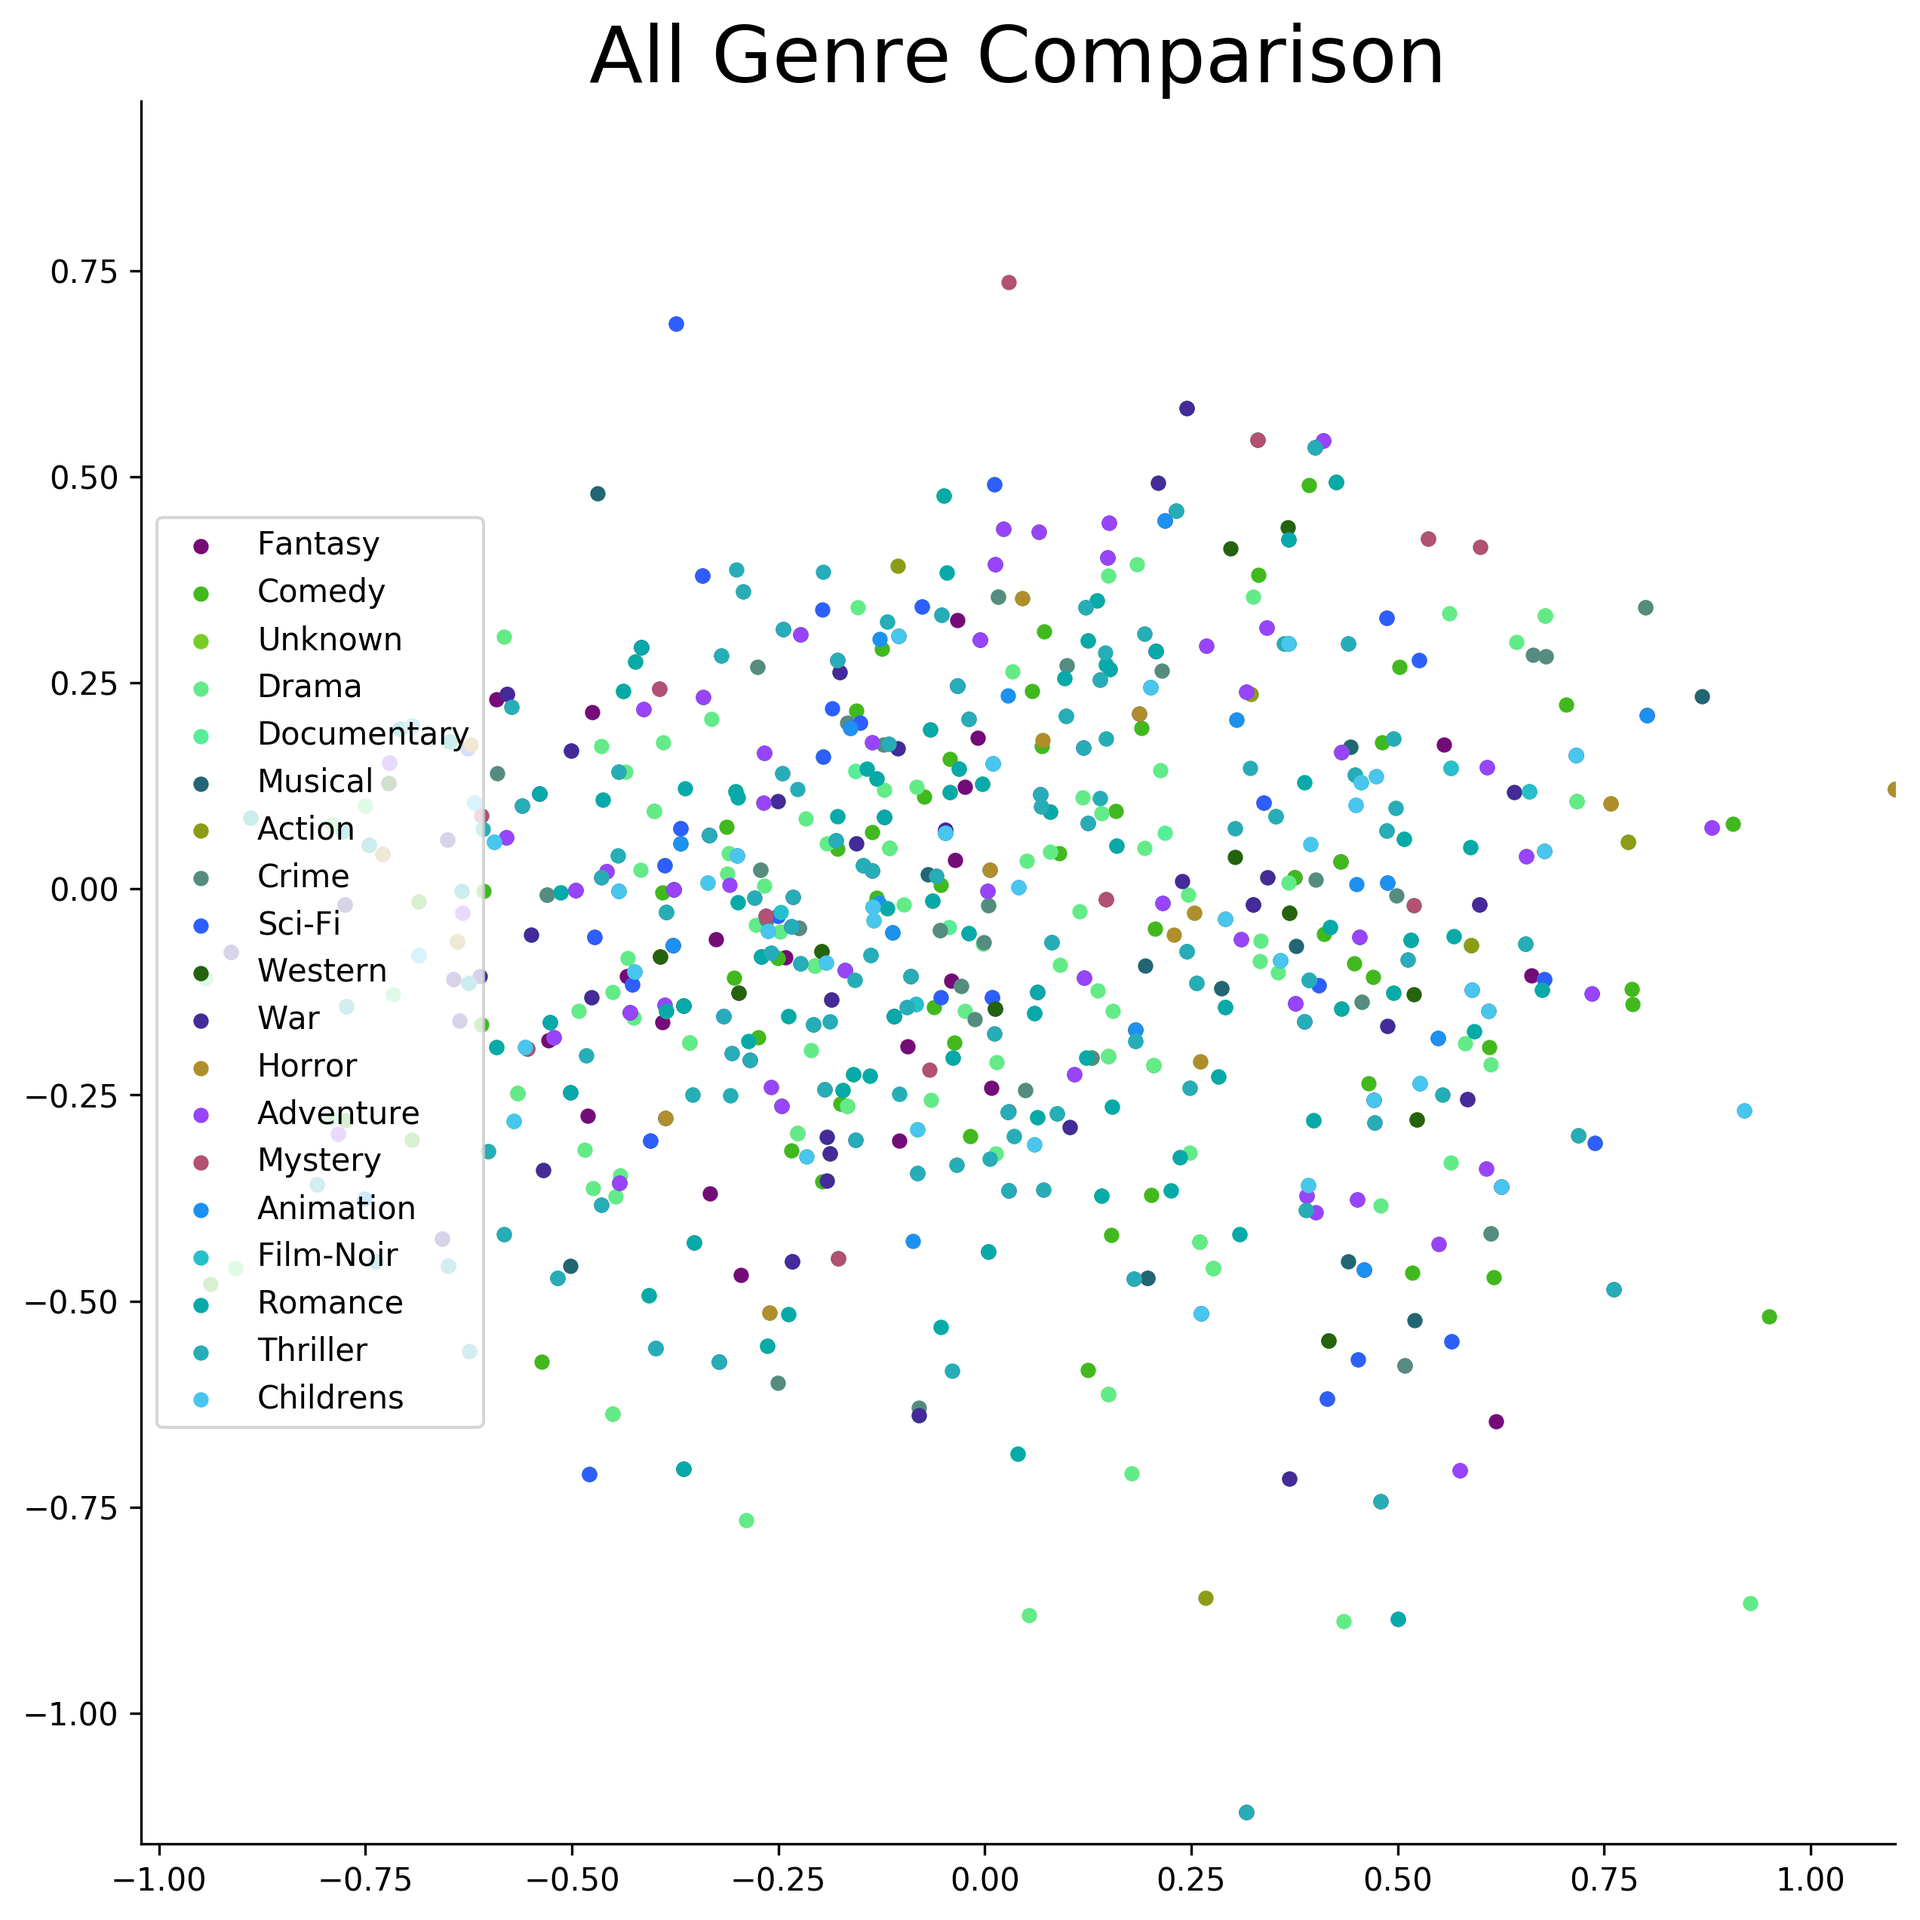
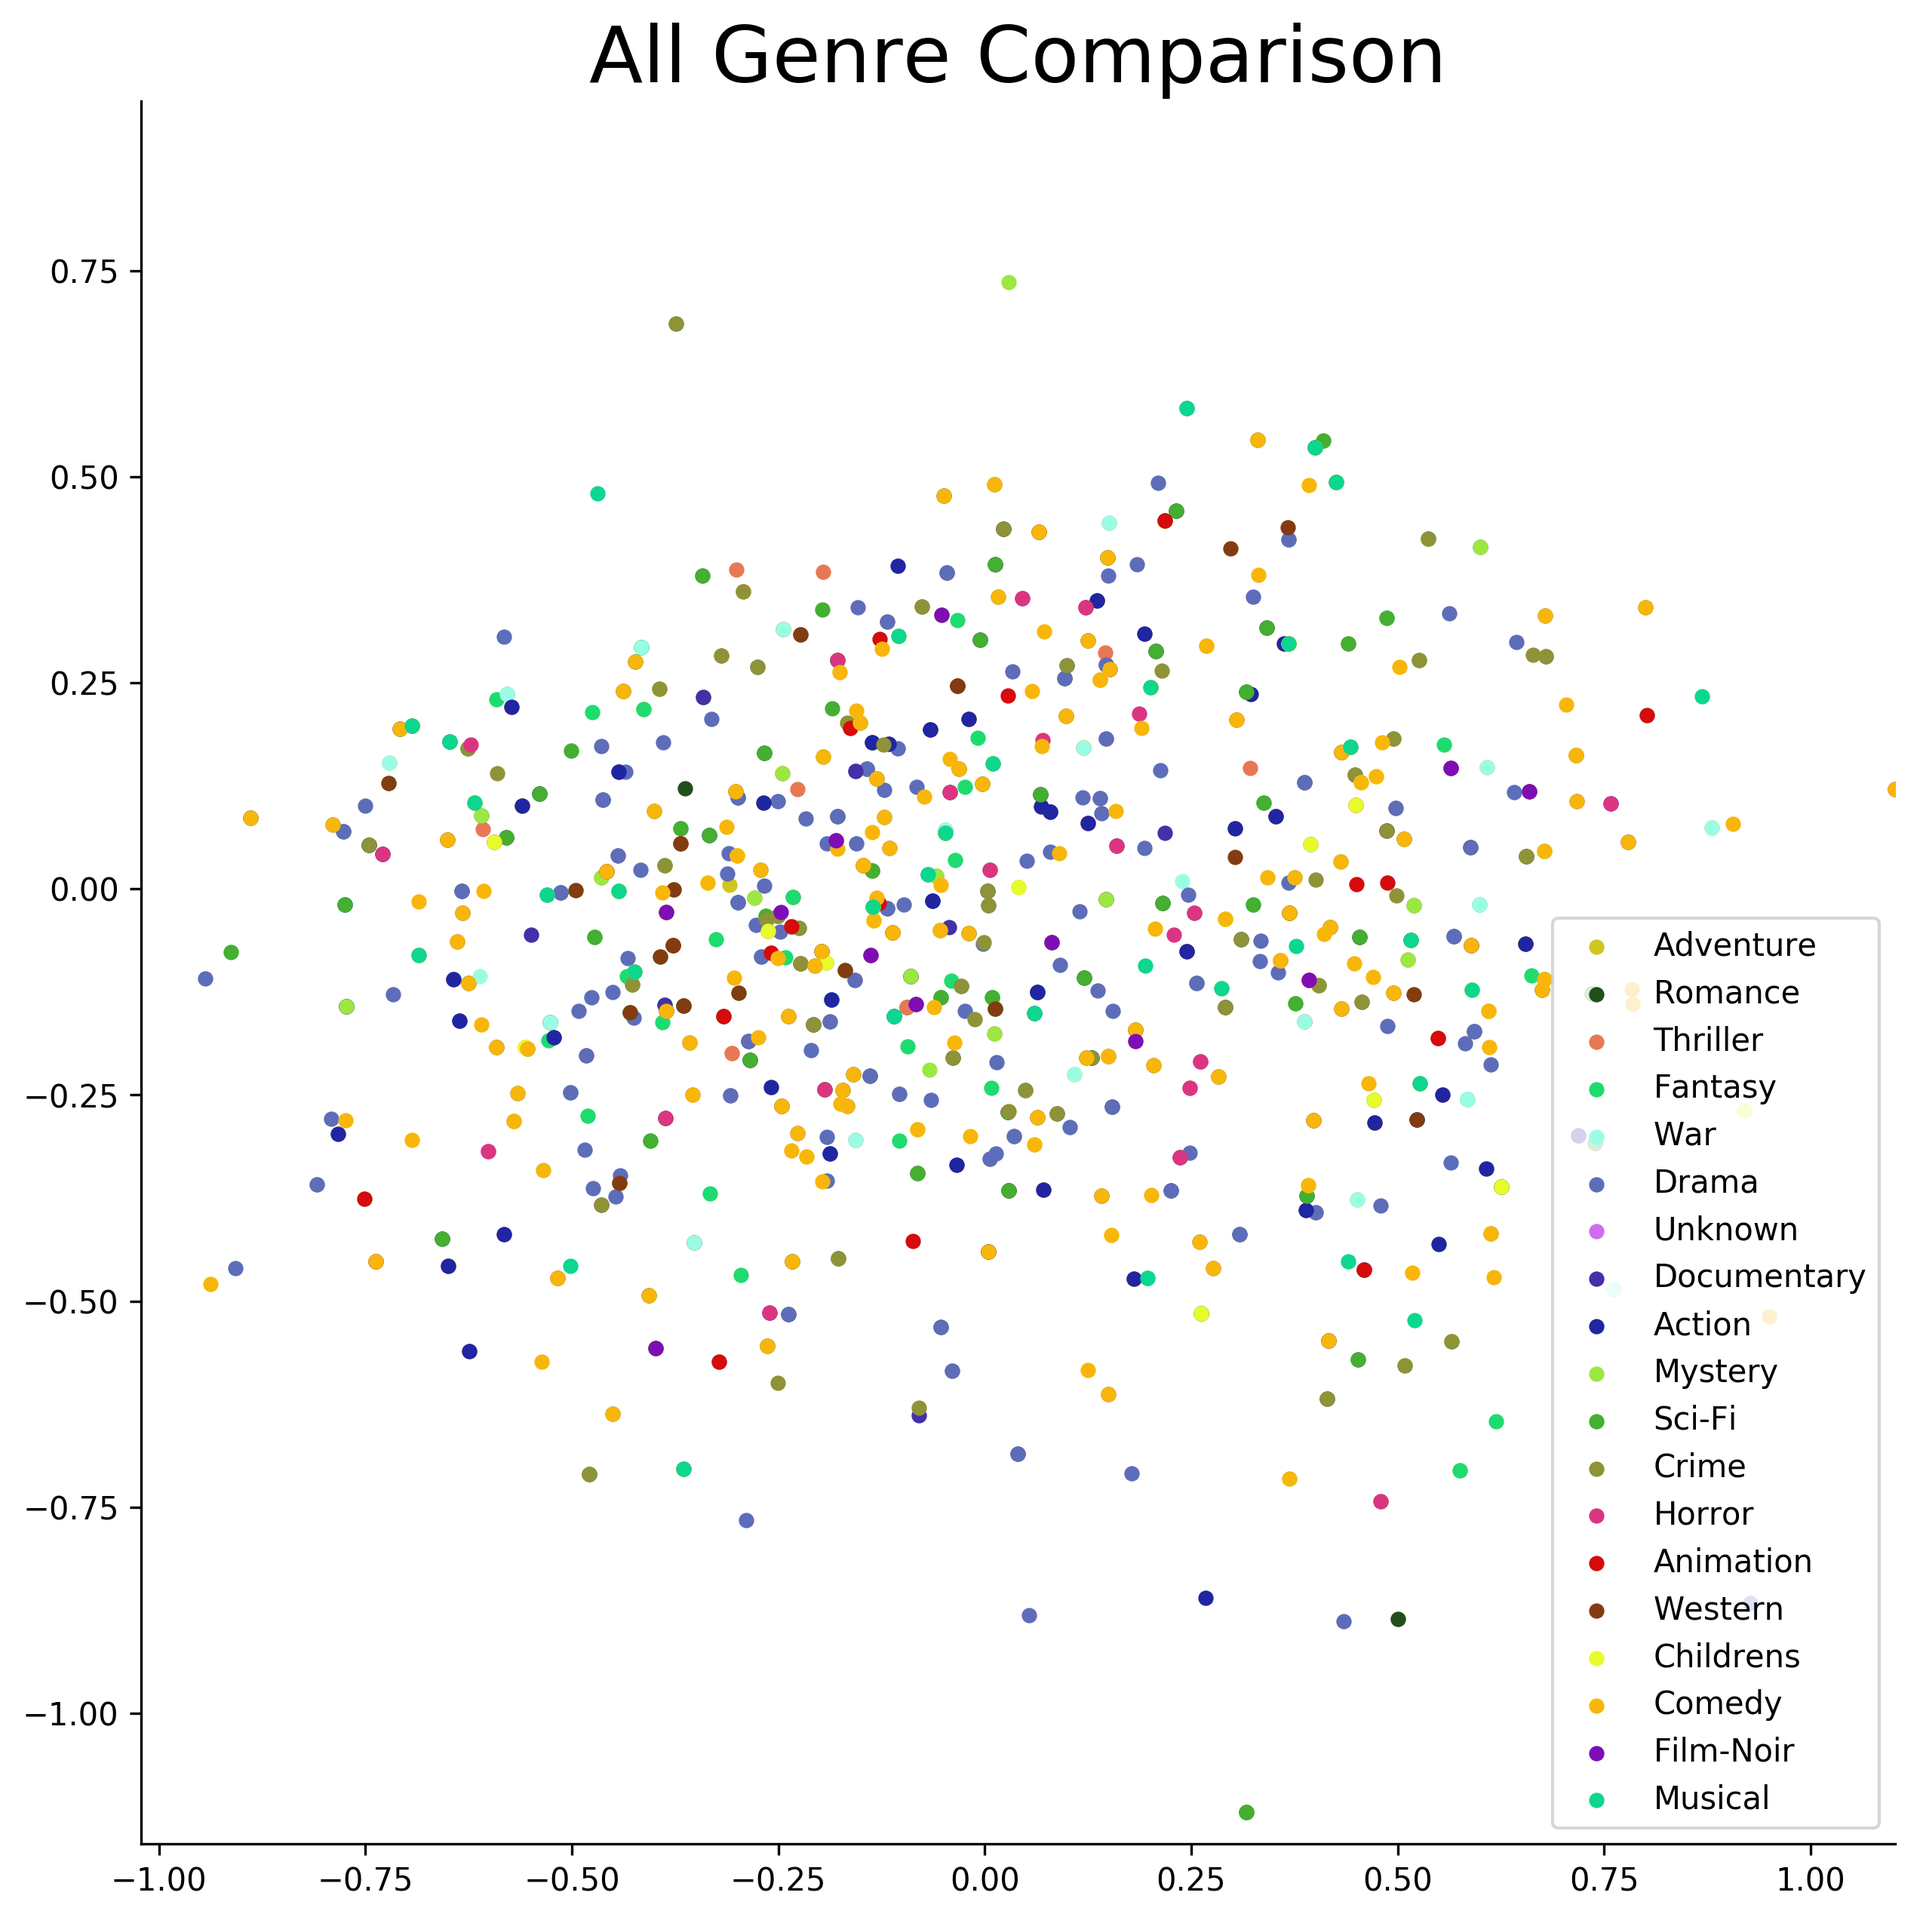
more plots, plot style

diff --git a/src/svd_visualization.py b/src/svd_visualization.py
@@ -125,7 +125,7 @@ def viz_comparison(title, xy_coords_lst, colors, rect, names=None, dpi=300,
                 ax.scatter(xy_coords[:, 0], xy_coords[:, 1], color=colors[i])
     
     if names is not None:
-        plt.legend(loc='center left')
+        plt.legend(loc='best')
     # remove top and right axis-lines for aesthetic purposes
     ax.spines['top'].set_visible(False)
     ax.spines['right'].set_visible(False)
@@ -203,6 +203,22 @@ def viz_tasks(V):
     # rectangle bounding all possible xy coordinates in V
     rect = [V[:, 0].min(), V[:, 0].max(), V[:, 1].min(), V[:, 1].max()]
 
+
+    # Plot specific/defined series and time ranges
+    # star-trek
+    startrek = np.array([222, 227, 228, 229, 230, 380, 449, 450])
+    twoD_viz('Series: Star Trek', startrek, V[startrek - 1], rect)
+    # batman
+    batman = np.array([29, 231, 254, 403])
+    twoD_viz('Series: Batman', batman, V[batman - 1], rect)
+    # year: 1998
+    interval = np.array([314, 315, 329, 348, 349, 350, 351, 353, 354, 355, 362, 
+        691, 752, 885, 902, 905, 907, 908, 909, 911, 912, 914, 915, 916, 917, 
+        918, 1105, 1106, 1127, 1191, 1234, 1313, 1316, 1395, 1420, 1429, 1432, 
+        1433, 1483, 1525, 1527, 1592, 1594, 1602, 1607, 1624, 1645, 1650, 1654, 
+        1656, 1670, 1679, 1680], dtype=np.uint16)
+    twoD_viz('Year: 1998', interval, V[interval - 1], rect, annotate=False)
+
     # create and save plots using movie ids and coordinates from V
     twoD_viz('All Movies', movie_ids, V, rect, annotate=False)
     viz_comparison('3-Genre Comparison', genre_coords, 
@@ -222,7 +238,8 @@ def viz_tasks(V):
     twoD_viz('Top 10 Genre: War Films', war, V[war - 1], rect)
     print('done!')
 
+
 if __name__ == '__main__':
     A = np.load('models/0.28235-A-0.10000-0.0100.npy')
     V = np.load('models/0.28235-V-0.10000-0.0100.npy')
-    viz_tasks(np.matmul(A.transpose(), V).transpose())
+    viz_tasks(np.matmul(V.transpose(), A))
